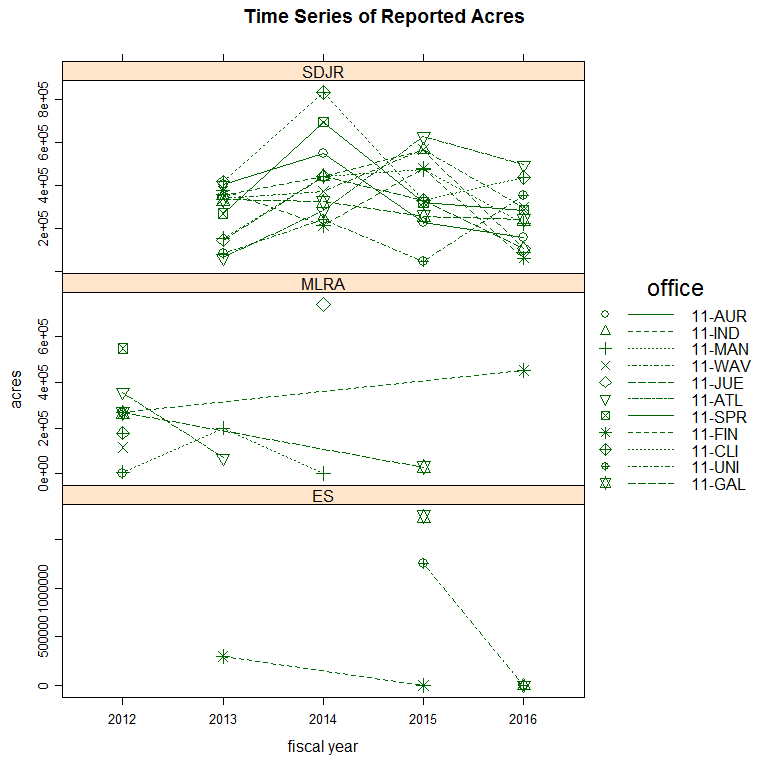
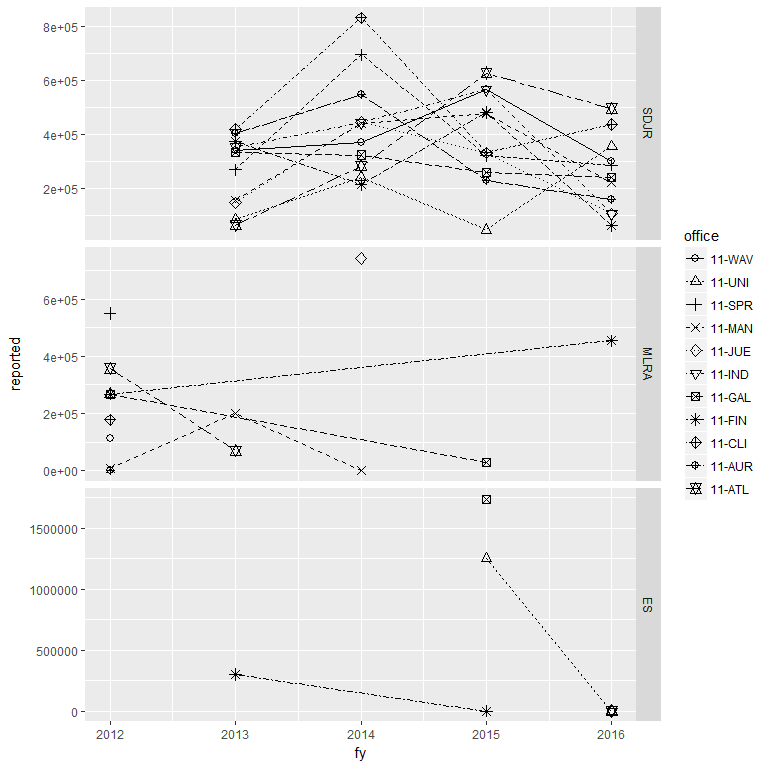
deleting sdjr_workload.R and adding to sdjr_summary.Rmd

diff --git a/updates/sdjr_summary.md b/updates/sdjr_summary.md
@@ -5,8 +5,9 @@ December 12, 2016
 
 
 
+
 ```r
-setwd("C:/Users/stephen.roecker/ownCloud/Documents/lims_data")
+setwd("C:/Users/stephen/ownCloud/Documents/lims_data")
 
 ### Set parameters
 ro <- 11
@@ -23,7 +24,7 @@ pt2 <- c("SDJR", "MLRA", "INITIAL", "ES")
 # years <- 2012:2016; start_date <- paste0("10/01/", years - 1); finish_date <- paste0("10/01/", years)
 # 
 # goals <- lapply(years, function(x){
-#   cat("fetching", x, "goals\n")
+#   cat("fetching", x, "goal\n")
 #   goals_report(x, "%25")
 #   }); goals <- do.call("rbind", goals)
 # 
@@ -37,15 +38,15 @@ pt2 <- c("SDJR", "MLRA", "INITIAL", "ES")
 
 corr_dates <- "2015_09_24"
 goal_dates <- "2016_12_13"
-corr_files <- paste0("report_correlation_fy", 2012:2015, "_", corr_dates, ".csv")
-goal_files <- paste0("report_goals_fy", substr(2012:2016, 3, 4), "_", goal_dates, ".csv")
+corr_files <- paste0("lims_correlation_fy", 2012:2015, "_", corr_dates, ".csv")
+goal_files <- paste0("lims_goals_fy", substr(2012:2016, 3, 4), "_", goal_dates, ".csv")
 
 rcors.. <- {lapply(corr_files, read.csv) ->.; do.call("rbind", .)}
-rcors16 <- read.csv("report_correlation_fy2016_AK%25_WY%25_2016_09_19.csv")
+rcors16 <- read.csv("lims_correlation_fy2016_AK%25_WY%25_2016_09_19.csv")
 goals <- {lapply(goal_files, read.csv) ->.; do.call("rbind", .)}
 load(file = "ssa.Rdata"); ssa -> ssa2
-ssa <- read.csv("M:/geodata/soils/SSA_Regional_Ownership_MASTER_MLRA_OFFICE.csv", stringsAsFactors = FALSE)
-ssa_r11 <- ssa[ssa$Region == 11, "AREASYMBOL"]
+# ssa <- read.csv("M:/geodata/soils/SSA_Regional_Ownership_MASTER_MLRA_OFFICE.csv", stringsAsFactors = FALSE)
+# ssa_r11 <- ssa[ssa$Region == 11, "AREASYMBOL"]
 
 ## House Cleaning
 
@@ -76,32 +77,99 @@ names(goals)[which(names(goals) %in% old_names)] <- new_names
 ### save copy
 
 save(rcors, file = paste0("rcors_fy_summary_", corr_dates, "_", format(Sys.time(), "%Y_%m_%d.Rdata")))
-save(goals, file = paste0("goals_fy_summary_", corr_dates, "_", format(Sys.time(), "%Y_%m_%d.Rdata")))
+save(goals, file = paste0("goals_fy_summary_", goal_dates, "_", format(Sys.time(), "%Y_%m_%d.Rdata")))
 ```
 
+
+## Estimate Workload
+
+
+```r
+fte <- c(2, 2.5, 3, 2.5, 3, 5, 3, 5, 4, 1, 3)
+wdays <- (52*5-10-3*5)*.75 # 52 weeks per year, 5 days per week, minus 10 holidays, minus 3 weeks vaction, at 75% an individuals time (i.e. minus 15% for TSS and 10% for miscellaneous)
+# projects per person = 69 projects/ 3.5 fte
+# days per project = workingdays/projects per person 
+
+days_p_person <- function(days, projects, fte){
+  days/(projects/fte)
+}
+
+goals_test <- mutate(goals,
+                     mapunit = ifelse(projectname %in% c("^SDJR"), projectname, NA),
+                     mapunit = sapply(projectname, function(x) unlist(strsplit(x, " - "))[3]),
+                     components = sapply(mapunit, function(x) unlist(strsplit(x, " "))[1])
+                     )
+
+test <- filter(goals_test, region %in% ro) %>%
+  group_by(office) %>%
+  summarize(
+    n_projects = length(unique(projectname)),
+    n_mapunits = length(unique(mapunit)),
+    n_majors = length(unique(sapply(components, function(x) unlist(strsplit(x, "-"))[1])))
+    ) %>%
+  as.data.frame()
+
+test <- mutate(test,
+               fte = round(fte, 1),
+               days = round(fte*wdays, 0),
+               days_project_fte = round(days / (n_projects / fte), 0), days_major_fte = round(days / (n_majors / fte), 0)
+               )
+test2 <- rbind(test, c("Average", 
+                       round(apply(test[2:8], 2, mean), 0))
+               )
+test2
+```
+
+```
+##     office n_projects n_mapunits n_majors fte days days_project_fte
+## 1   11-ATL        242        240       43   2  352                3
+## 2   11-AUR         94         94       42 2.5  441               12
+## 3   11-CLI        188        188       67   3  529                8
+## 4   11-FIN         64         58       15 2.5  441               17
+## 5   11-GAL        176        173       51   3  529                9
+## 6   11-IND        152        149       53   5  881               29
+## 7   11-JUE        259        257      132   3  529                6
+## 8   11-MAN        150        147       36   5  881               29
+## 9   11-SPR         81         70       23   4  705               35
+## 10  11-UNI         53         50       25   1  176                3
+## 11  11-WAV        322        316       36   3  529                5
+## 12 Average        162        158       48   3  545               14
+##    days_major_fte
+## 1              16
+## 2              26
+## 3              24
+## 4              74
+## 5              31
+## 6              83
+## 7              12
+## 8             122
+## 9             123
+## 10              7
+## 11             44
+## 12             51
+```
 
 ## Examine Reported Acres
 
 
 ```r
-temp <- filter(goals, region == ro) %>%
+temp <- goals %>%
+  filter(region == ro & projecttypename %in% pt2) %>%
   group_by(fy, office, projecttypename) %>%
   summarize(
     goaled = sum(goaled),
     reported = sum(reported)
     )
-temp <- subset(temp, projecttypename %in% pt2)
 rank <- sort(tapply(temp$reported, list(temp$office), sum))
 temp <- transform(temp,
-                  office = factor(temp$office, levels = names(rank)),
-                  fy = as.factor(fy),
-                  projecttypename = factor(projecttypename, levels = sort(unique(temp$projecttypename), decreasing = TRUE))
+                  office = factor(office, levels = sort(unique(temp$office), decreasing = TRUE)),
+                  projecttypename = factor(projecttypename, levels = pt2)
                   )
 
-dotplot(office ~ reported | projecttypename + fy, data = temp, 
-        ylab = "offices", xlab = "acres", main = "Time Series of Acres Reported",
-        scales = list(x = "free")
-        )
+ggplot(temp, aes(x = reported, y = office)) + 
+  geom_point() + 
+  facet_grid(~ projecttypename ~ fy, scales = "free_x") +
+  ggtitle("Time Series of Acres Reported")
 ```
 
 ![](sdjr_summary_files/figure-html/goals-1.png)<!-- -->
@@ -109,26 +177,17 @@ dotplot(office ~ reported | projecttypename + fy, data = temp,
 
 
 ```r
-n_office <- nlevels(temp$office)
-n_ptype <- nlevels(temp$projecttypename)
-
-xyplot(reported ~ fy | projecttypename, groups = office, data = temp,
-       ylab = "acres", xlab = "fiscal year", main = "Time Series of Reported Acres",
-       type = "o", pch = 1:n_office, lty = 1:n_office, lwd = 1.5, col = "darkgreen", cex = 1.2,
-       layout = c(1, n_ptype), as.table = TRUE, scales = list(y = "free", alternating = 1),
-       key = list(title = "office",
-                  space = "right",
-                  points = list(pch = 1:n_office, col = "darkgreen"),
-                  lines = list(lty = 1:n_office, lwd = 1.5, col = "darkgreen"),
-                  text = list(levels(temp$office))
-                  )
-       )
+ggplot(temp, aes(x = fy, y = reported, group = office, linetype = office, shape = office)) + 
+  geom_line(size = 0.7) + 
+  geom_point(size = 2.5) +
+  scale_shape_manual(values=1:nlevels(temp$office)) +
+  facet_grid(projecttypename ~ ., scales = "free_y")
 ```
 
 ![](sdjr_summary_files/figure-html/goals2-1.png)<!-- -->
 
 
-## Compare Project Acres to Goal Acres
+## Compare Project Acres to Goaled Acres
 
 
 ```r
@@ -148,7 +207,8 @@ rcors_acres <- group_by(rcors, fy, region, office, projectname, projectiid, area
 
 temp <- merge(goals, rcors_acres, by = "projectname", all.x = TRUE)
 
-progress <- group_by(temp, region.x, fy.x, projecttypename) %>% 
+progress <- temp %>%
+  group_by(region.x, fy.x, projecttypename) %>% 
   summarize(reported = sum(reported) / 0.2,
             new_acres = sum(new_acres, na.rm = TRUE),
             dif_acres = sum(reported - new_acres, na.rm = TRUE),
@@ -157,10 +217,8 @@ progress <- group_by(temp, region.x, fy.x, projecttypename) %>%
   as.data.frame()
 
 rank <- sort(tapply(progress$reported, list(progress$region.x), sum))
-progress <- transform(progress,
-                      region = factor(progress$region.x, levels = names(rank))
-                      )
-subset(progress, region == ro & projecttypename %in% pt)
+
+subset(progress, region.x == ro & projecttypename %in% pt)
 ```
 
 ```
@@ -169,11 +227,6 @@ subset(progress, region == ro & projecttypename %in% pt)
 ## 218       11 2014            SDJR 24150585  24332646   -182061       1
 ## 221       11 2015            SDJR 21141050  21182385    -41335       0
 ## 225       11 2016            SDJR 13828070  13786315     41755       0
-##     region
-## 216     11
-## 218     11
-## 221     11
-## 225     11
 ```
 
 ```r
